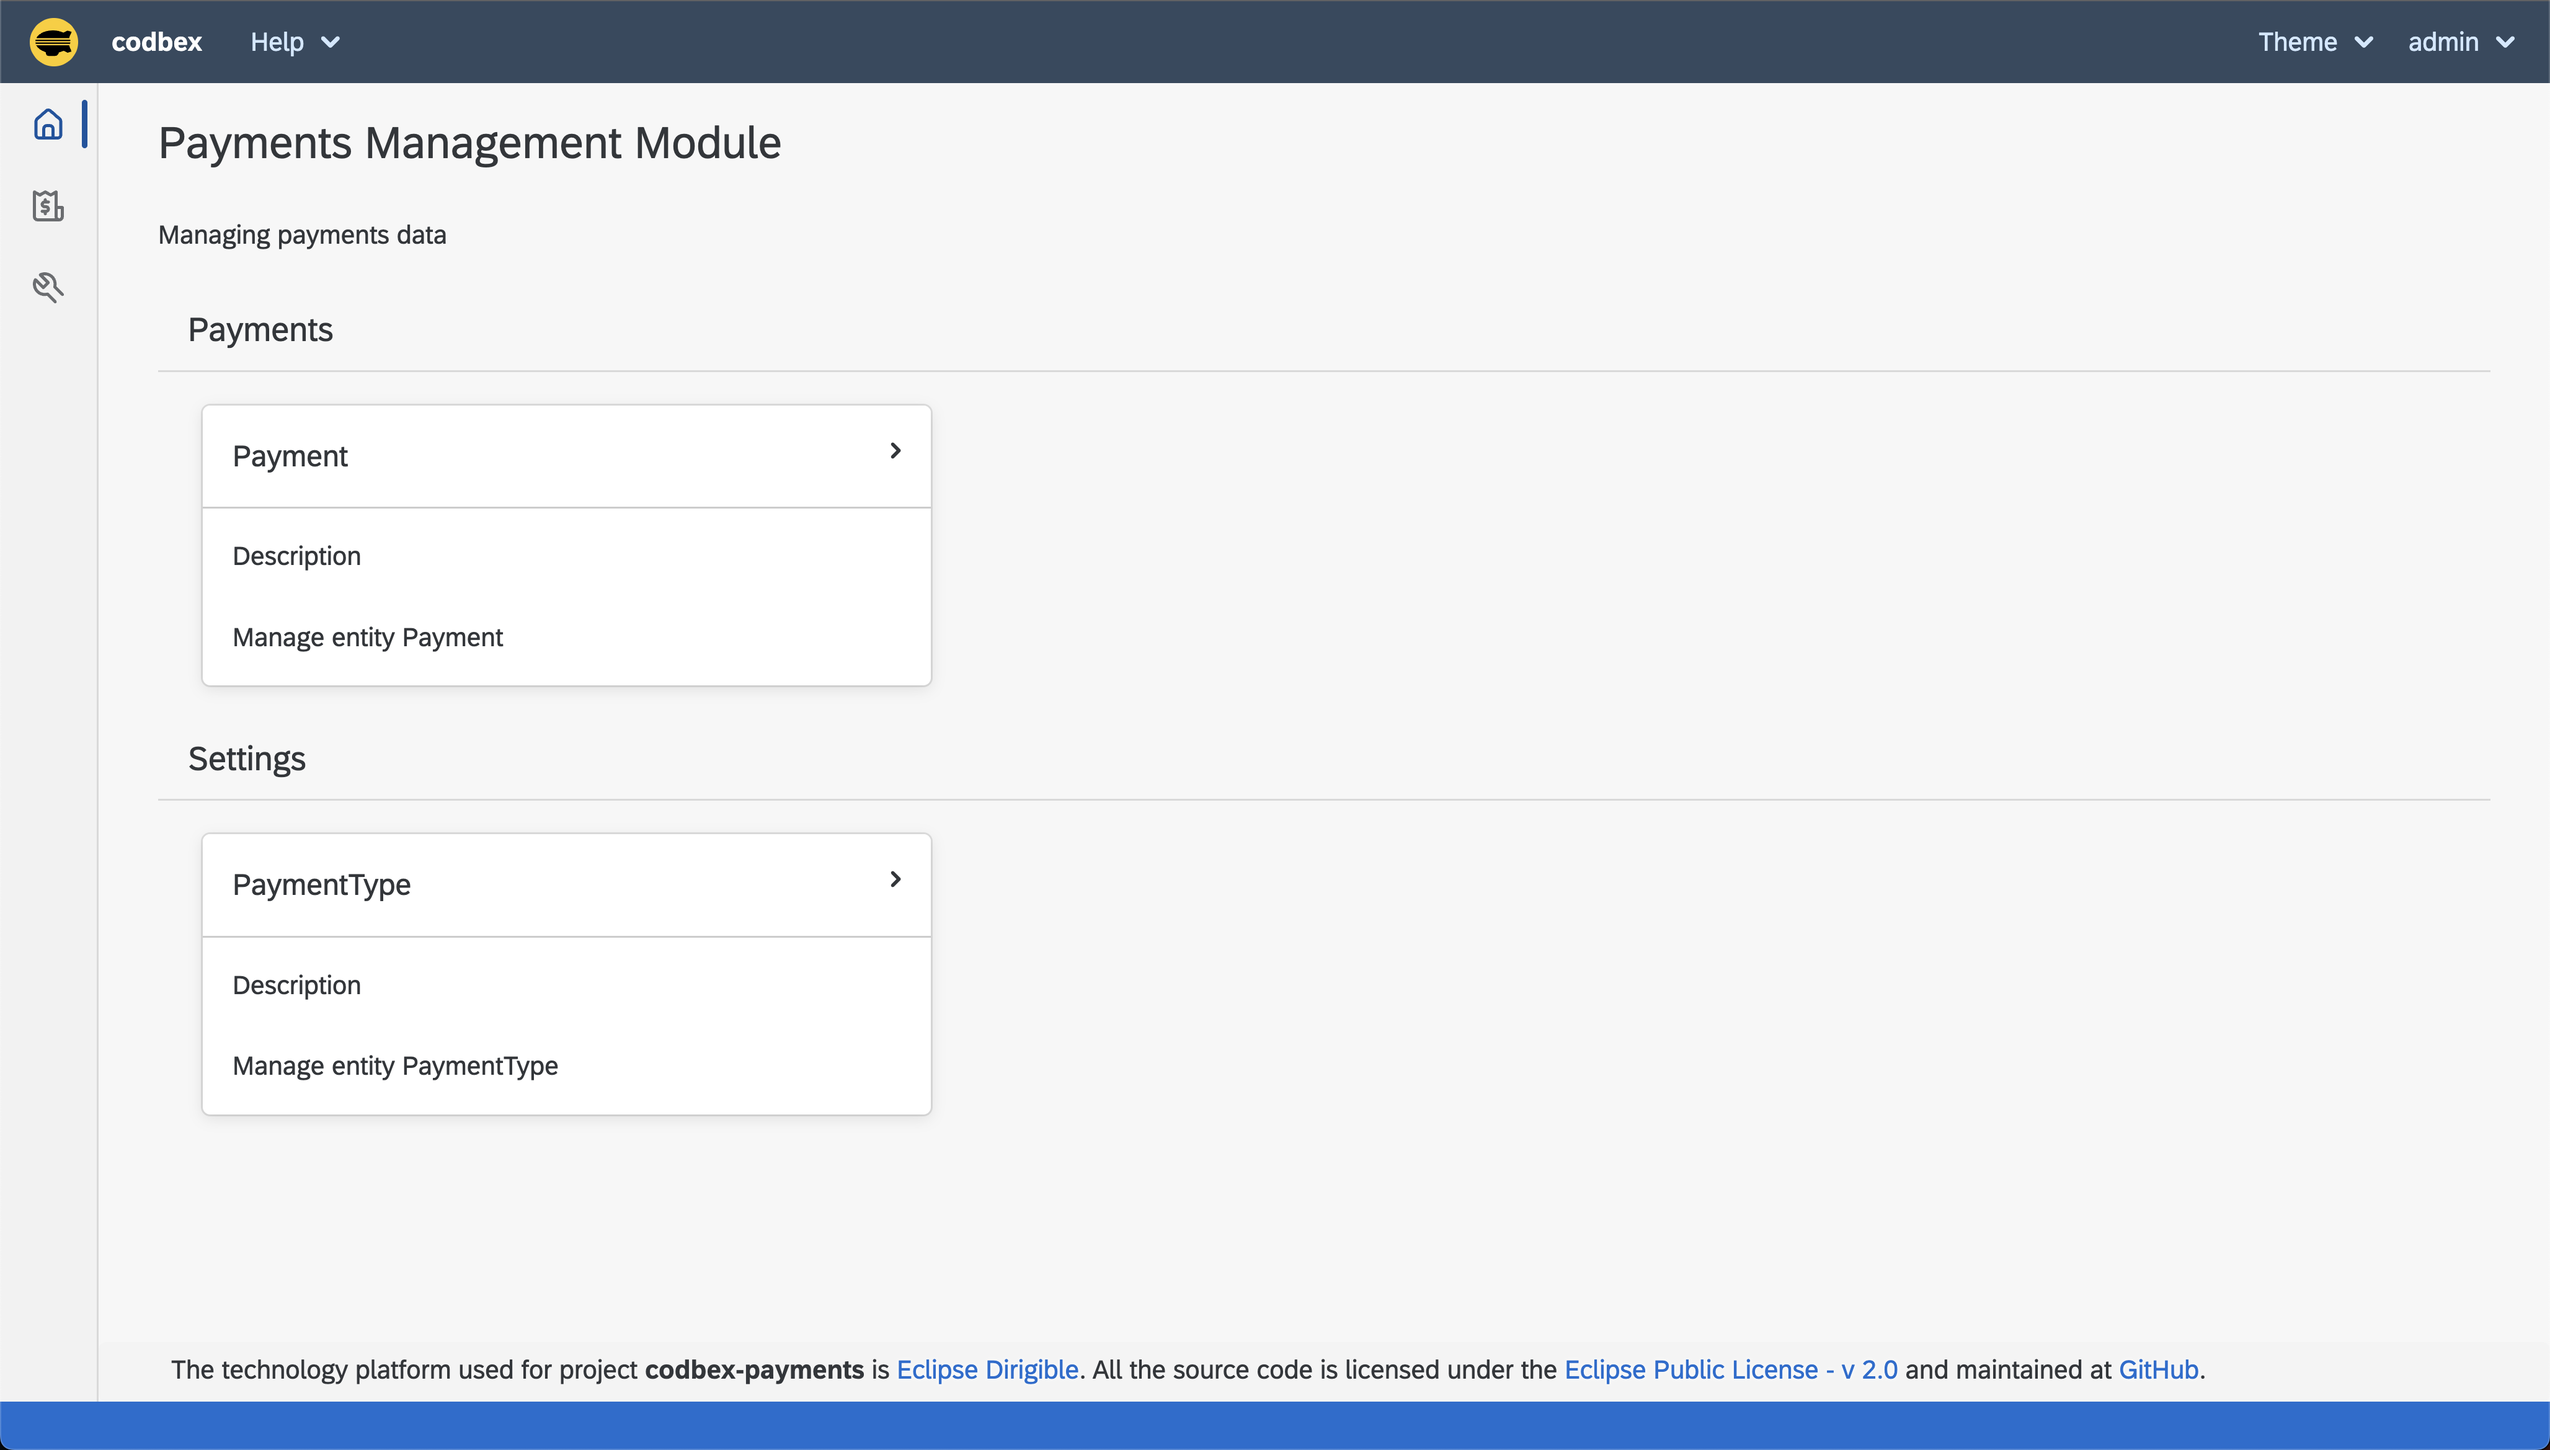
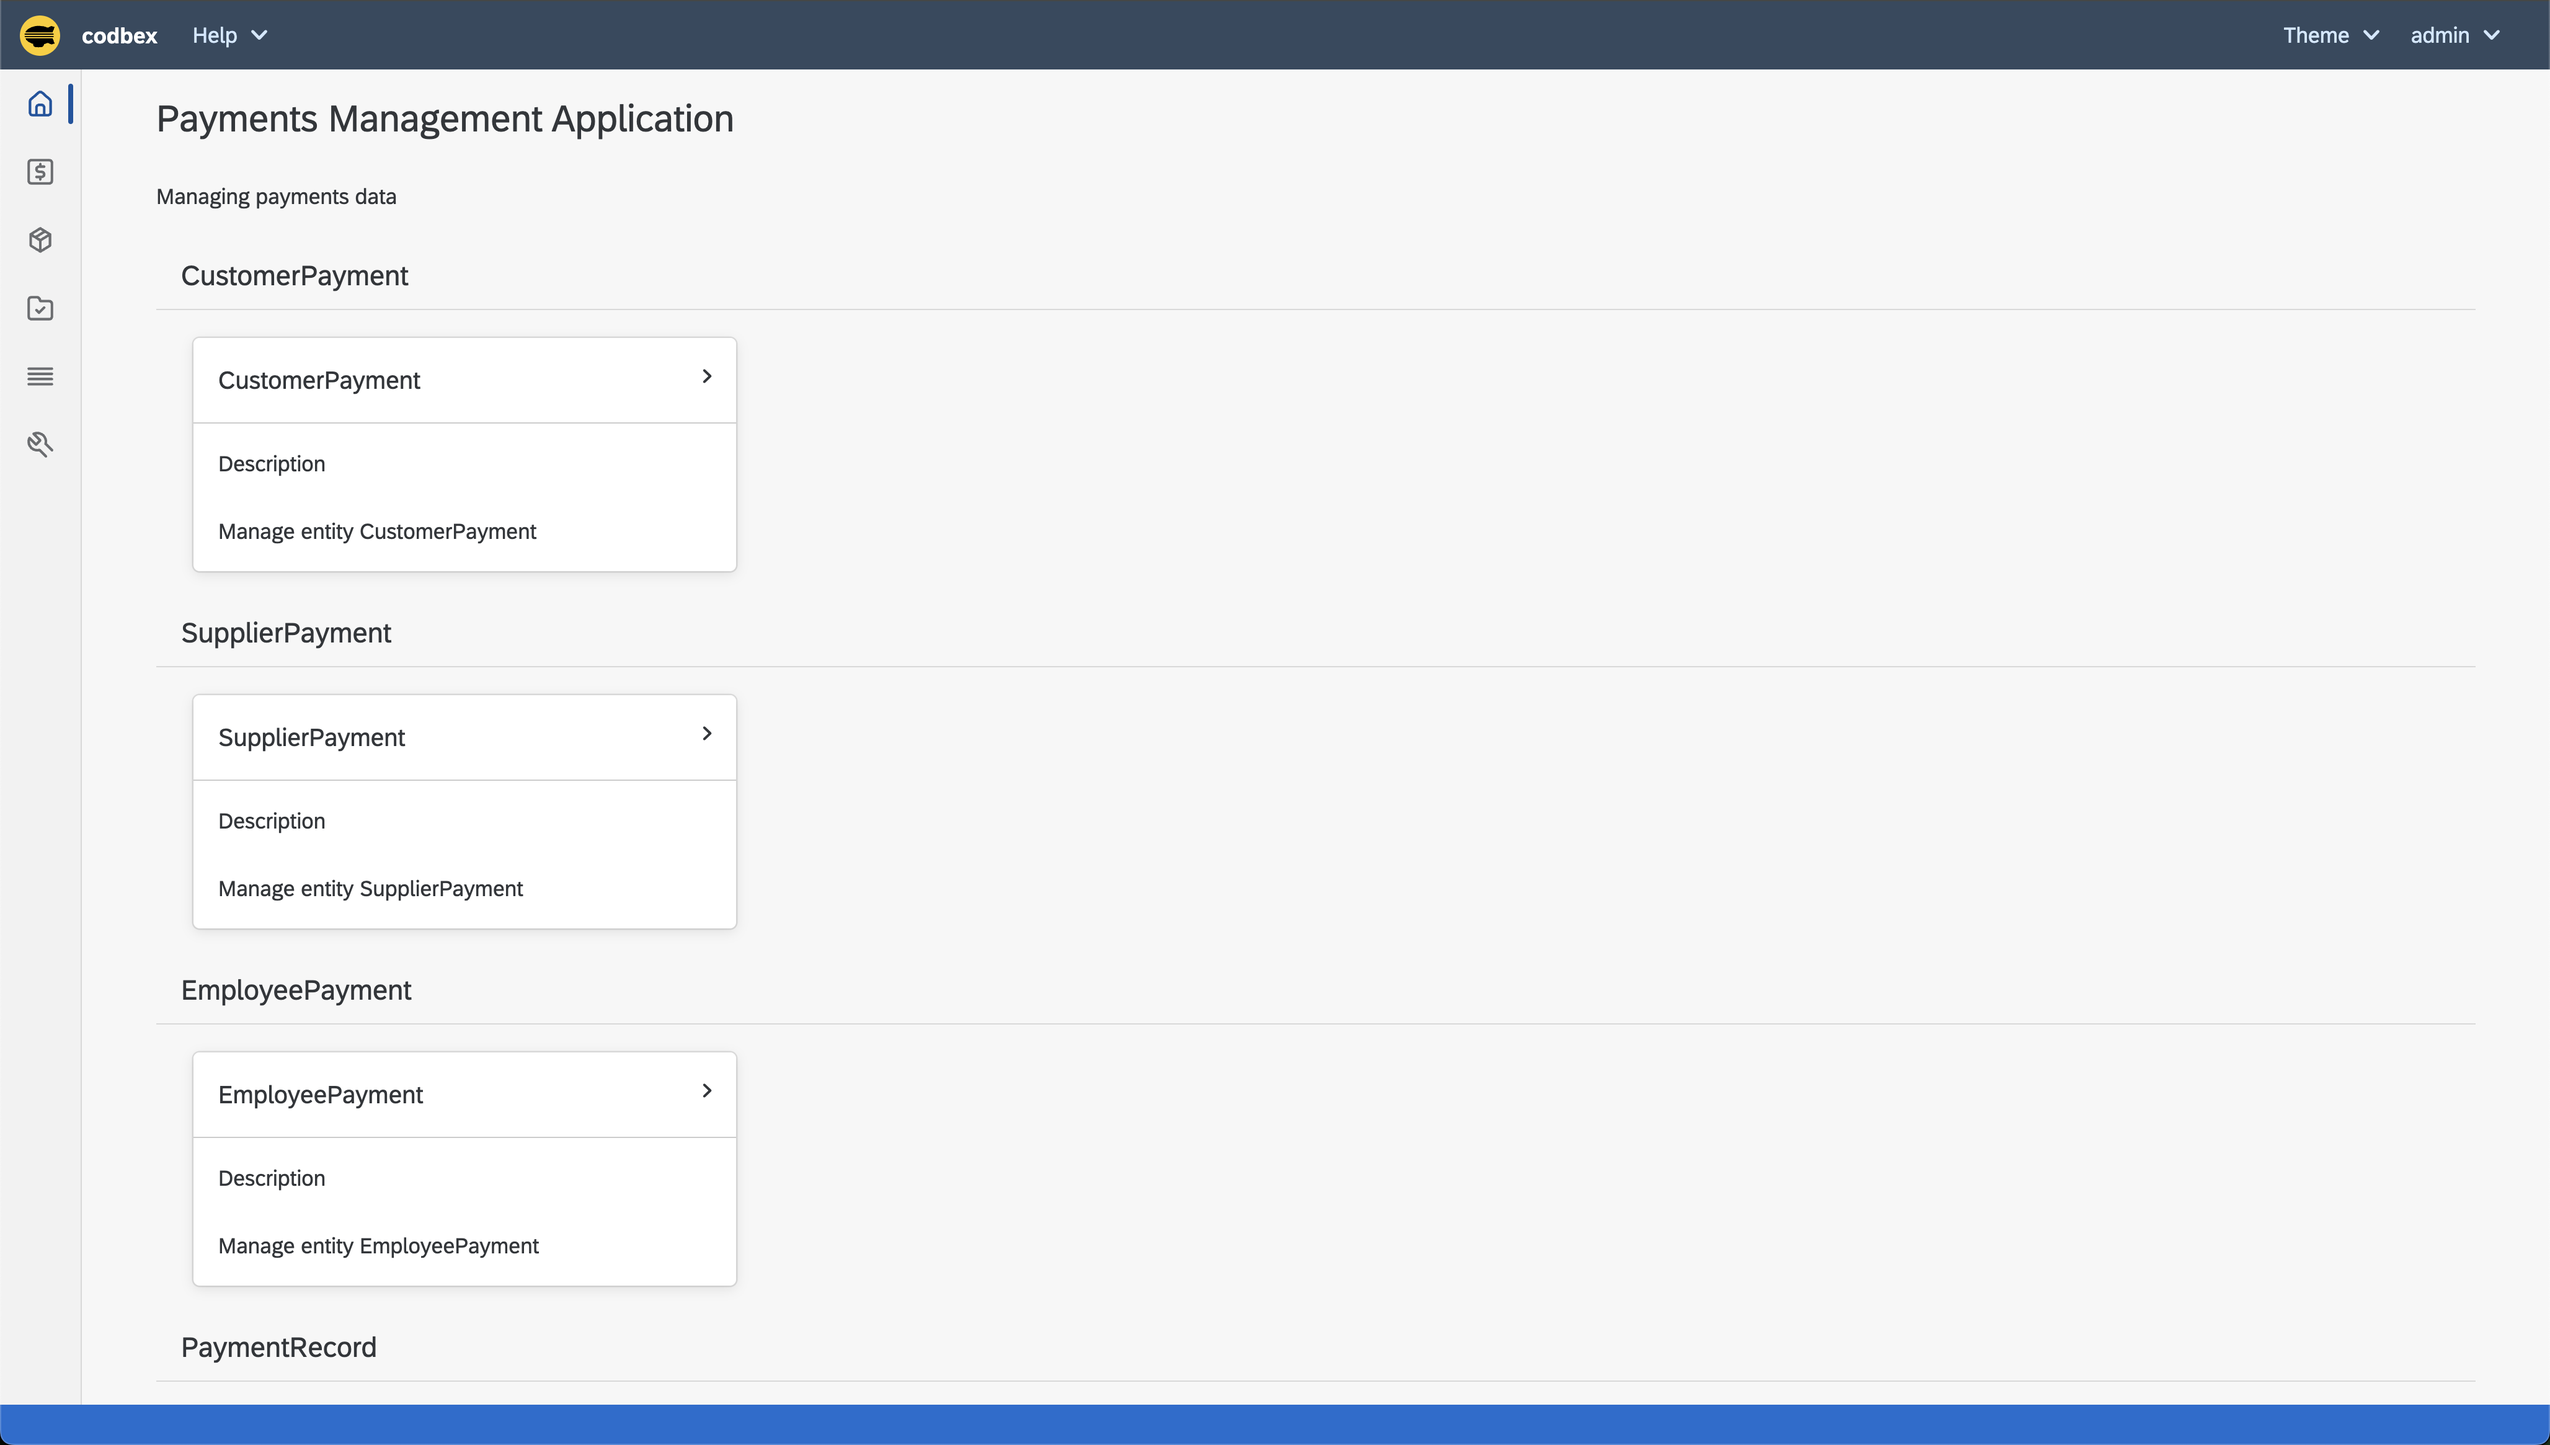
Update readme

diff --git a/README.md b/README.md
@@ -9,10 +9,14 @@
 
 #### Launchpad
 
-![model](images/payments-launchpad.png)
+![launchpad](images/payments-launchpad.png)
 
 #### Management
 
-![model](images/payments-management.png)
+![customer](images/payments-customer-payment.png)
 
-![model](images/payments-payment-type.png)
+![supplier](images/payments-supplier-payment.png)
+
+![employee](images/payments-employee-payment.png)
+
+![settings](images/payments-settings.png)
